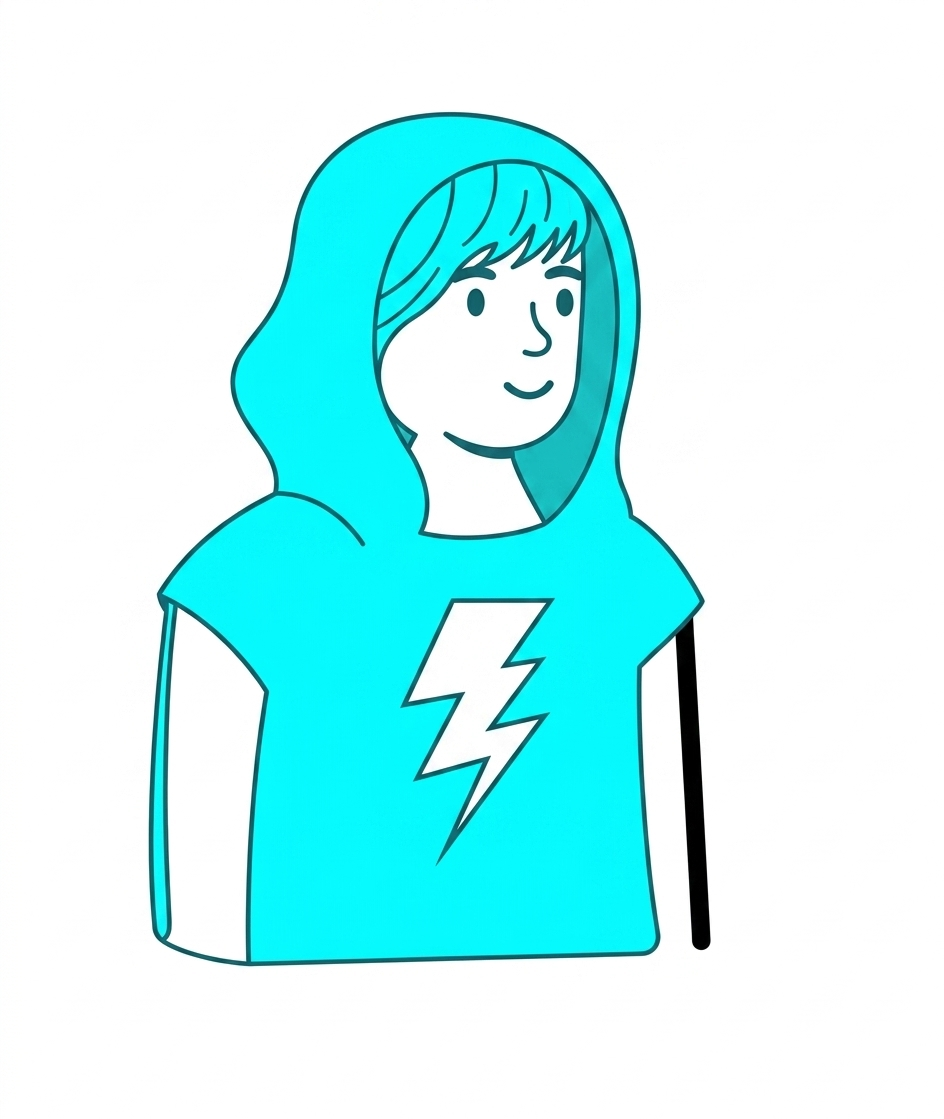
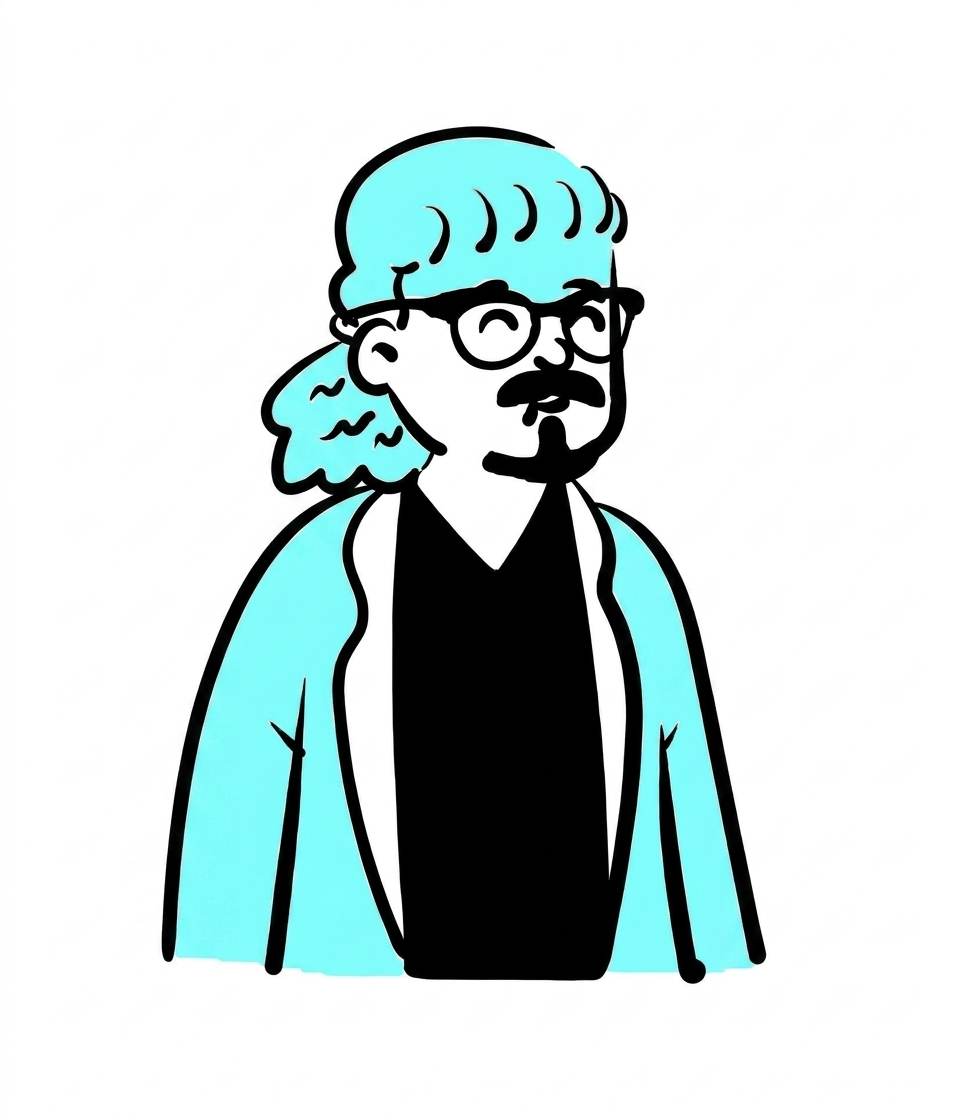
animation change

diff --git a/src/styles/global.css b/src/styles/global.css
@@ -47,6 +47,7 @@ body {
   margin: 0;
   color: var(--text);
   background: var(--bg);
+  overflow-x: hidden;
   -webkit-font-smoothing: antialiased;
   text-rendering: optimizeLegibility;
 }
@@ -2242,17 +2243,46 @@ h1 {
   filter: none;
 }
 
-.hero-peeps-static {
+.hero-peeps-runner {
   position: absolute;
-  left: 50%;
-  bottom: clamp(16px, 6vh, 56px);
+  left: 0;
+  bottom: clamp(96px, 16vh, 150px);
   z-index: 0;
-  width: clamp(220px, 24vw, 340px);
-  max-width: none;
-  height: auto;
-  transform: translateX(-50%);
   pointer-events: none;
   user-select: none;
+  animation: peepsMoveRight 18s linear infinite;
+  will-change: transform;
+}
+
+.hero-peeps-walker {
+  display: block;
+  width: clamp(180px, 16.8vw, 264px);
+  max-width: none;
+  height: auto;
+  opacity: 1;
+  animation: peepsWalkBounce 1.5s ease-in-out infinite;
+  will-change: transform;
+}
+
+@keyframes peepsMoveRight {
+  0% {
+    transform: translateX(-100%);
+  }
+
+  100% {
+    transform: translateX(100vw);
+  }
+}
+
+@keyframes peepsWalkBounce {
+  0%,
+  100% {
+    transform: translateY(0);
+  }
+
+  50% {
+    transform: translateY(-8px);
+  }
 }
 
 /* Visible, accessible keyboard focus on the hero CTAs */
@@ -2293,7 +2323,7 @@ h1 {
 
 .hero-content {
   position: relative;
-  z-index: 5;
+  z-index: 10;
   width: min(100% - 48px, 1200px);
   max-width: 1200px;
   margin: 0 auto;
@@ -2441,9 +2471,24 @@ h1 {
 }
 
 @media (max-width: 768px) {
-  .hero-peeps-static {
-    width: clamp(190px, 58vw, 260px);
-    bottom: 10px;
+  .hero-peeps-runner {
+    bottom: 84px;
+  }
+
+  .hero-peeps-walker {
+    width: clamp(144px, 43.2vw, 216px);
+  }
+}
+
+@media (prefers-reduced-motion: reduce) {
+  .hero-peeps-runner,
+  .hero-peeps-walker {
+    animation: none !important;
+  }
+
+  .hero-peeps-runner {
+    left: 50%;
+    transform: translateX(-50%);
   }
 }
 